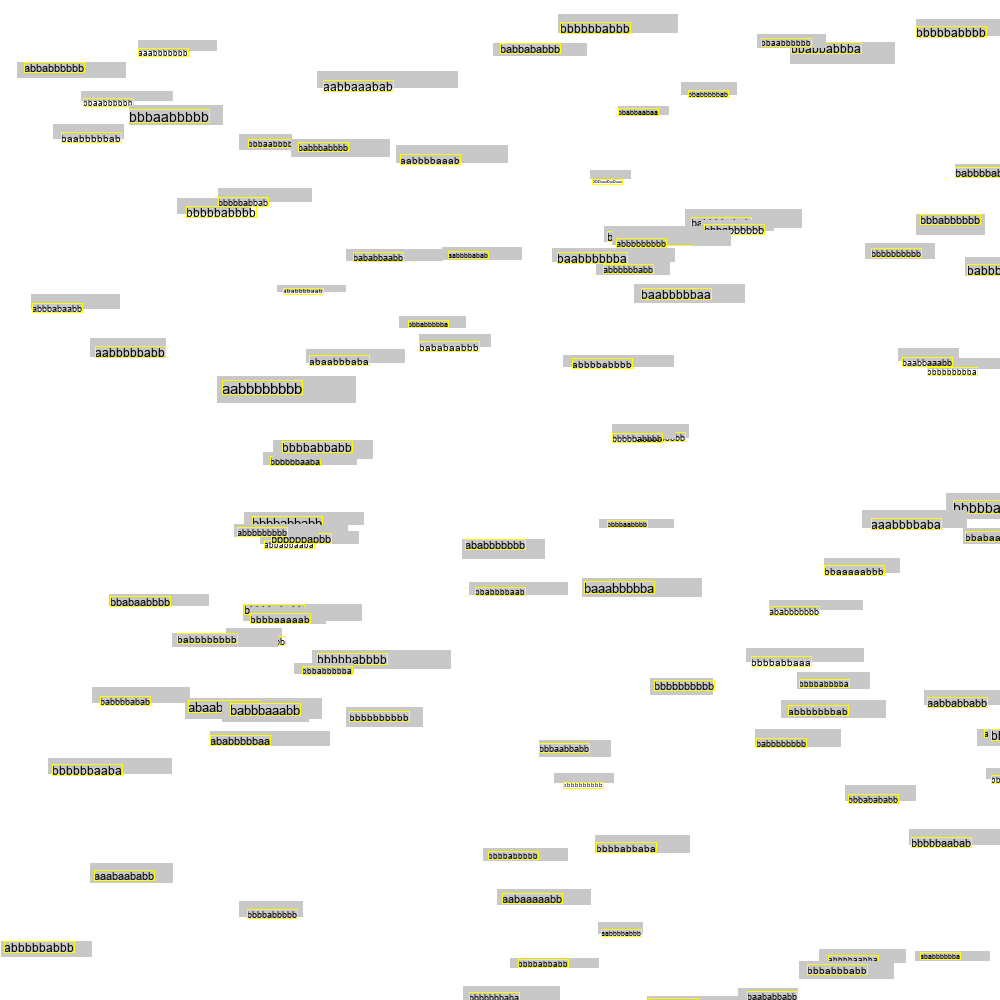
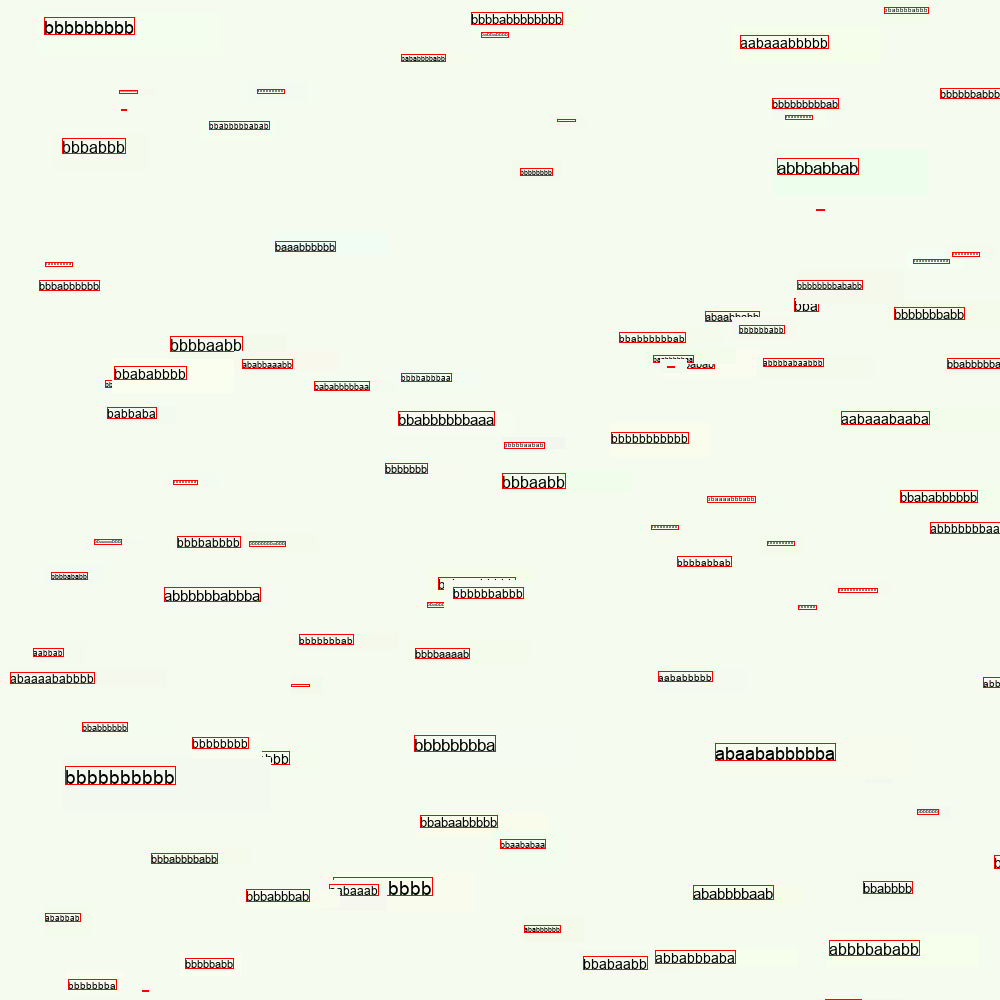
Mod

diff --git a/data/generators/randomizer.py b/data/generators/randomizer.py
@@ -1,6 +1,6 @@
 import numpy as np
 from pandas import read_csv
-from numpy.random import rand, randint, normal
+from numpy.random import rand, randint, normal, exponential
 from emcee import EnsembleSampler
 from PIL import Image, ImageDraw, ImageFont
 
@@ -18,11 +18,11 @@ class BoxRandomizer(object):
     charset = read_csv('charset.tsv', sep='\t')
     fontset = read_csv('fontset.tsv', sep='\t')
 
-    def run(self, x, y, draw):
+    def run(self, x, y, bg_color, draw):
         font_idx = 2
         font_color = "#000"
-        font_size = int(normal(10, 2))
-        length = 10
+        font_size = int(normal(10, 5))
+        length = int(normal(10, 2))
         font_name = self.fontset.loc[self.fontset['index'] == font_idx]['font1'].values[0]
         font = ImageFont.truetype('/Library/Fonts/' + font_name, font_size)
         w, h = font.getsize('a')
@@ -32,9 +32,10 @@ class BoxRandomizer(object):
 
         box_x = x - randint(0, 10)
         box_y = y - randint(0, 10)
-        box_w = (max_x - x) * (1 + rand())
-        box_h = (max_y - y) * (1 + rand())
-        box_color = (200, 200, 200)
+        box_w = (max_x - box_x) * (1 + rand())
+        box_h = (max_y - box_y) * (1 + rand())
+
+        box_color = (bg_color[0] + normal(0, 2), bg_color[1] + normal(0, 2), bg_color[2] + normal(0, 2))
         draw.rectangle((box_x, box_y, box_x + box_w, box_y + box_h), fill=box_color)
 
         _x = x
@@ -48,27 +49,53 @@ class BoxRandomizer(object):
         _y += h
 
         # get convex full
-        line_color = (255, 255, 0)
+        line_color = (255, 0, 0)
         line_width = 1
         draw.line((x, y, _x, y), fill=line_color, width=line_width)
         draw.line((_x, y, _x, _y), fill=line_color, width=line_width)
         draw.line((_x, _y, x, _y), fill=line_color, width=line_width)
         draw.line((x, _y, x, y), fill=line_color, width=line_width)
 
+        return box_x, box_y, box_x + box_w, box_y + box_h
+
 
 def main():
     max_x = 1000
     max_y = 1000
-    image = Image.new('RGB', (max_x, max_y), (255, 255, 255))
+    bg_color = (255 - exponential(10, 1), 255 - exponential(10, 1), 255 - exponential(10, 1))
+    image = Image.new('RGB', (max_x, max_y), bg_color)
     draw = ImageDraw.Draw(image)
     randomizer = BoxRandomizer()
     n_iteration = 100
 
+    boxes = []
     for i in range(n_iteration):
         x = max_x * rand()
         y = max_y * rand()
-        randomizer.run(x, y, draw)
+        box_x1, box_y1, box_x2, box_y2 = randomizer.run(x, y, bg_color, draw)
+        new_box = [box_x1, box_y1, box_x2, box_y2]
+        is_intersect = False
+        for box in boxes:
+            if intersect(box, new_box):
+                is_intersect = True
+                break
+
+        if not is_intersect:
+            boxes.append(new_box)
+            print(boxes)
     image.save('test.png')
+
+
+def intersect(box1, box2):
+    is_intersect = True
+
+    if (box1[0] > box2[0] or box1[2] < box2[0]) and \
+        (box1[0] > box2[2] or box1[2] < box2[2]) and \
+        (box1[1] > box2[1] or box1[3] < box2[1]) and \
+        (box1[1] > box2[3] or box1[3] < box2[3]):
+        is_intersect = False
+
+    return is_intersect
 
 
 if __name__ == "__main__":
